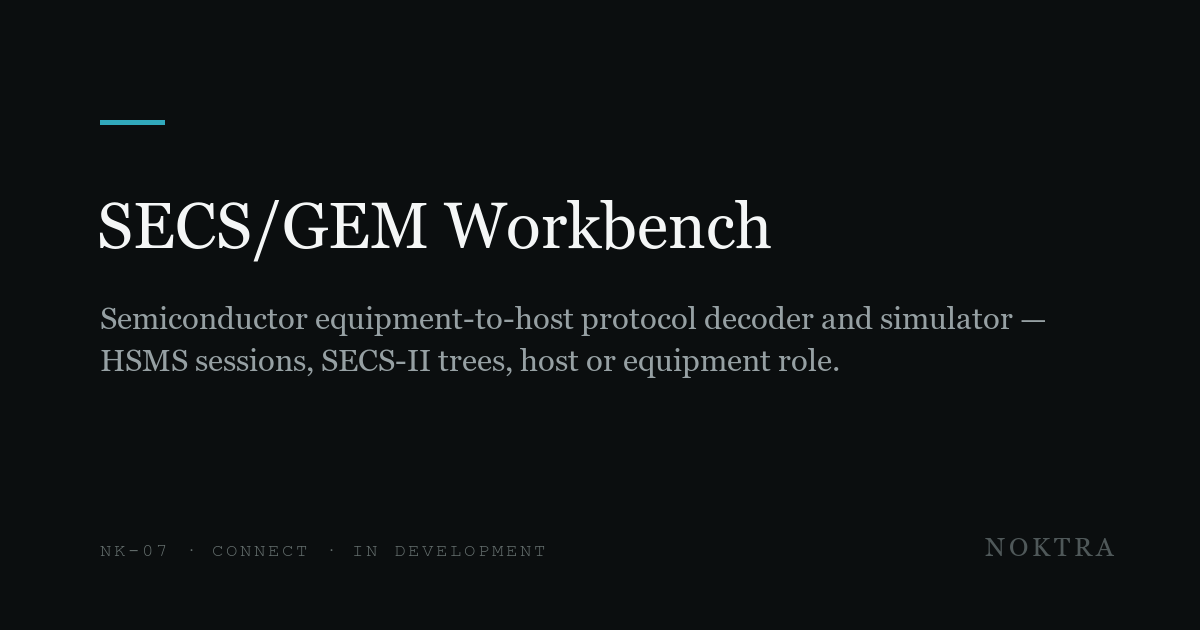
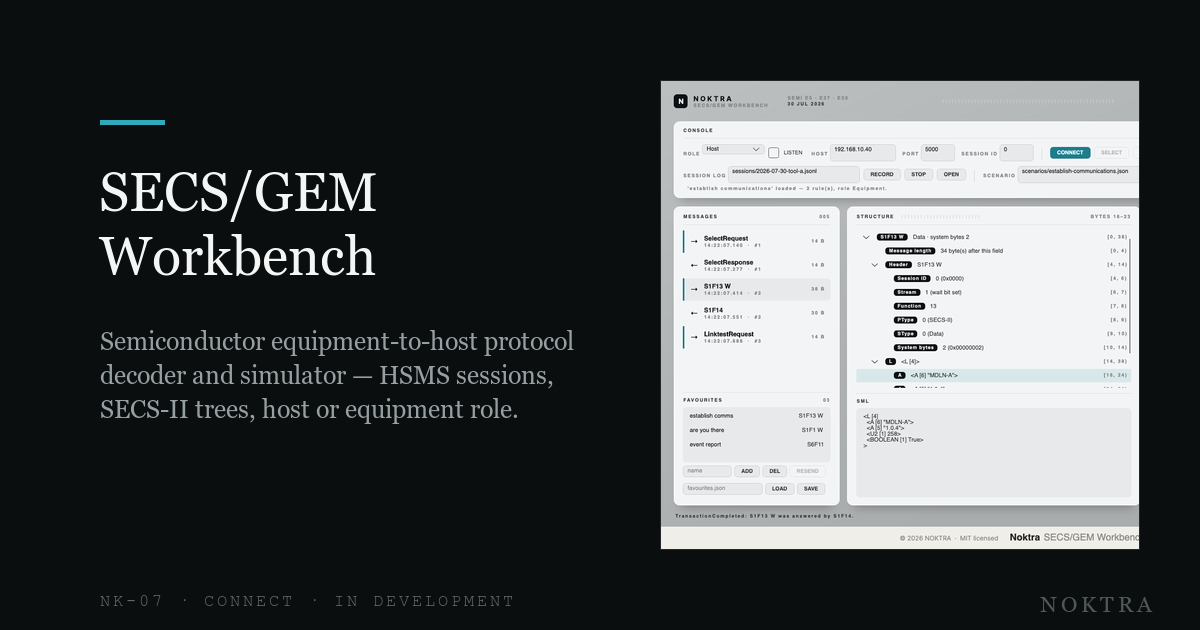
Replace 9 OG cards with screenshot-background layout
Claude-Session: https://claude.ai/code/session_0197tuSeCE3pi9AkMUQC1hQh

diff --git a/RALPH_LOG.md b/RALPH_LOG.md
@@ -85,3 +85,6 @@
 ## 개선 7 — 제품별 OG 카드 9장 (2026-08-03)
 - public/og/<slug>.png ×9: 기본 카드와 동일 문법(토큰 색·Georgia/Courier, 1200×630) — 제품명·oneLiner(자동 줄바꿈)·REF/동사/상태·NOKTRA 마크. secsgem은 ↔ 글리프 부재로 렌더 시 -to- 치환.
 - en/ko 제품 페이지 og/twitter를 전용 카드로 오버라이드(productOgMeta — 자식 openGraph가 부모를 통째로 대체하므로 완전한 객체 반환). 나머지 페이지는 기본 카드 유지.
+
+## 개선 8 — OG 카드 9장 스크린샷 배경 버전으로 교체 (2026-08-03)
+- 좌측 텍스트(틱·세리프 제품명·한줄) + 우측 실제 스크린샷 헤어라인 프레임(cover-crop) + 하단 REF/동사/상태 모노 라벨. 사용자 선택으로 텍스트형에서 전면 교체, 메타 연결은 기존 그대로.
